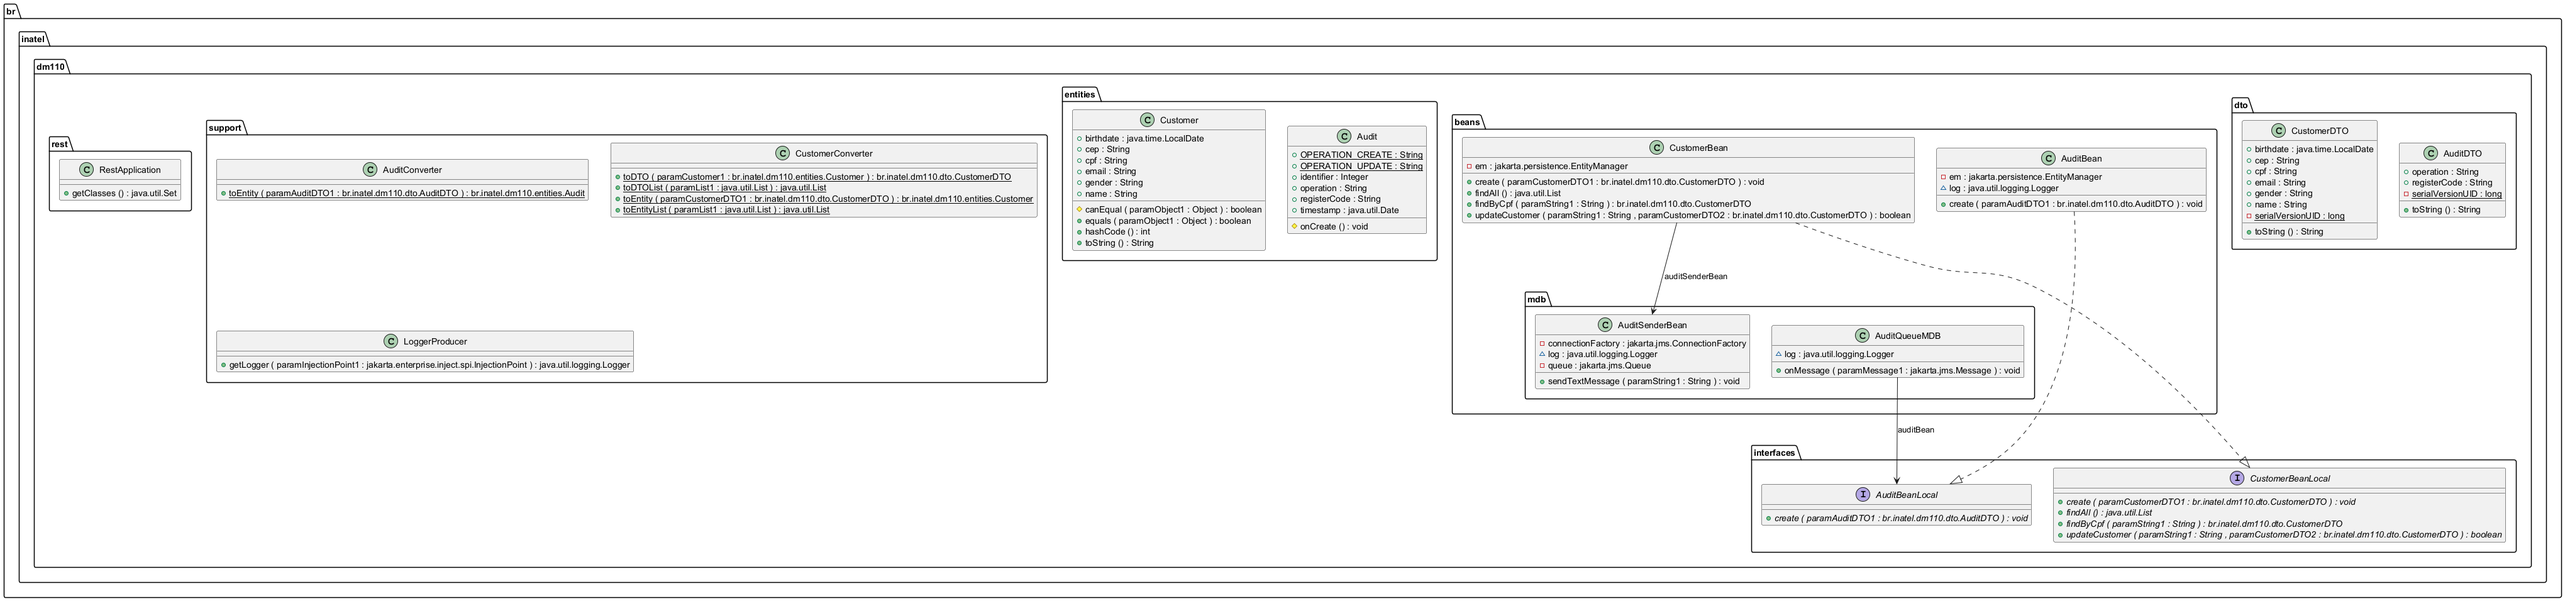
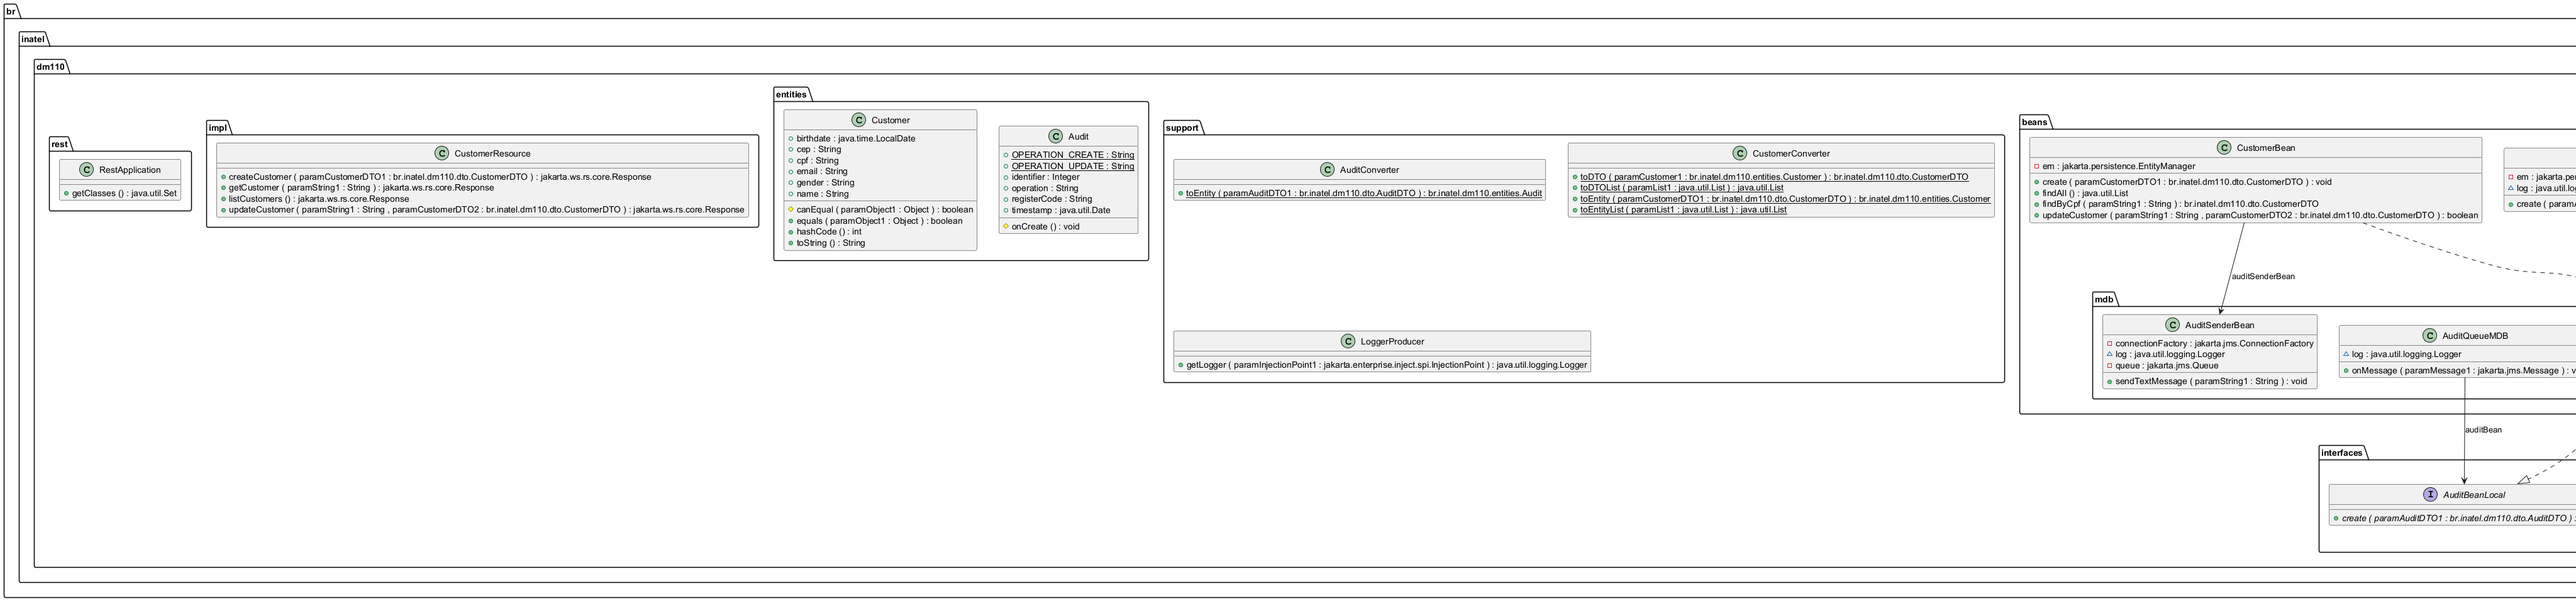
fix diagram

diff --git a/trabalho-web/src/main/java/br/inatel/dm110/rest/RestApplication.java b/trabalho-web/src/main/java/br/inatel/dm110/rest/RestApplication.java
@@ -3,7 +3,7 @@ package br.inatel.dm110.rest;
 import java.util.HashSet;
 import java.util.Set;
 
-import br.inatel.impl.CustomerResource;
+import br.inatel.dm110.impl.CustomerResource;
 import jakarta.ws.rs.ApplicationPath;
 import jakarta.ws.rs.core.Application;
 

diff --git a/trabalho-impl/src/main/java/br/inatel/dm110/impl/CustomerResource.java b/trabalho-impl/src/main/java/br/inatel/dm110/impl/CustomerResource.java
@@ -1,4 +1,4 @@
-package br.inatel.impl;
+package br.inatel.dm110.impl;
 
 import java.util.List;
 
